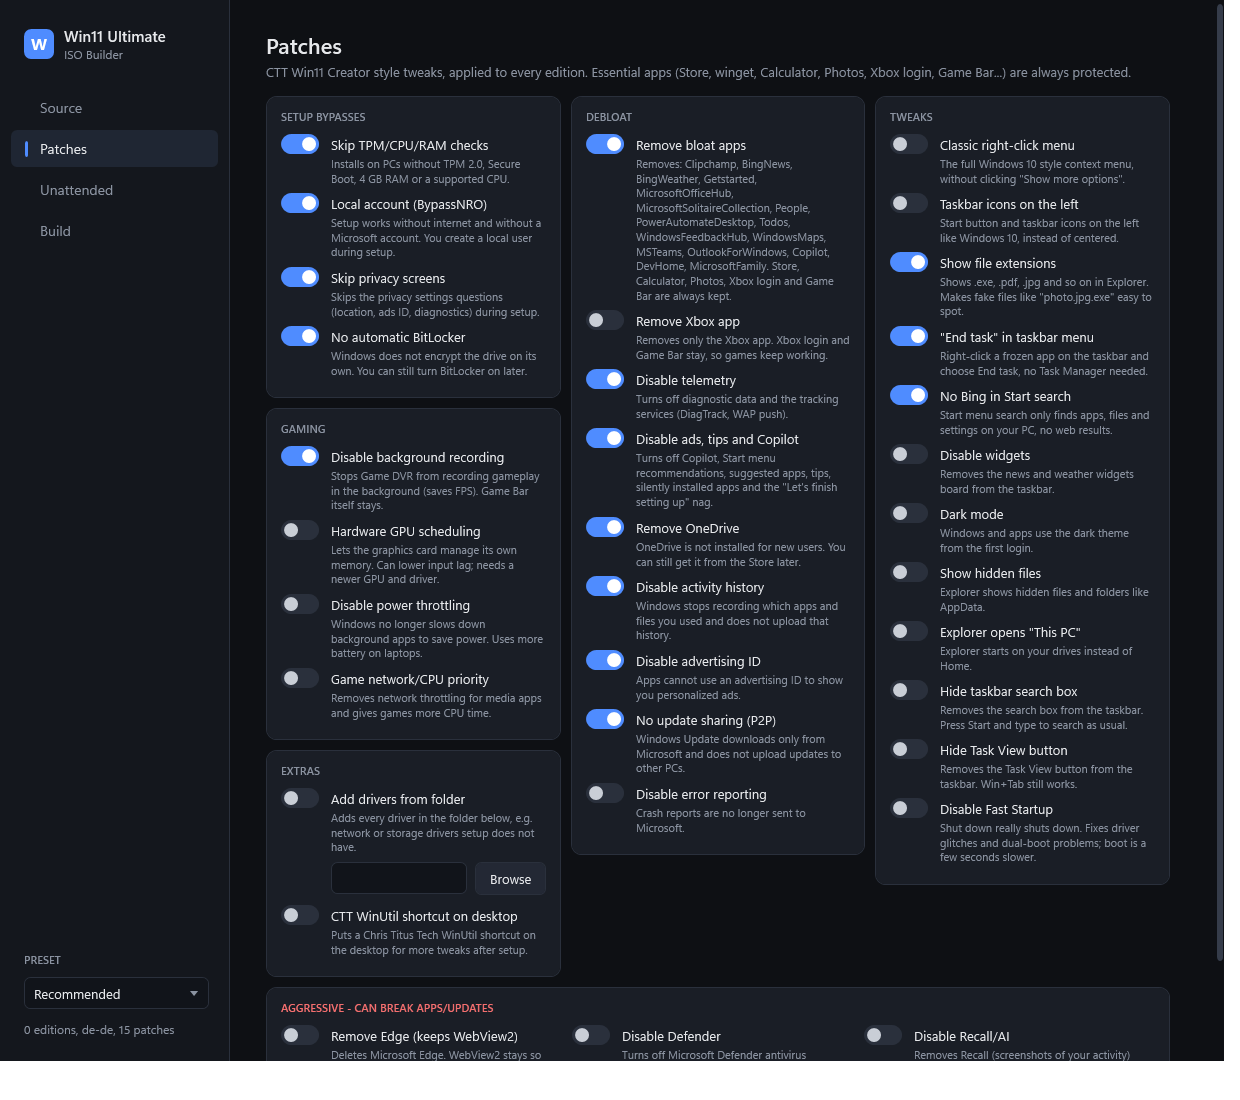
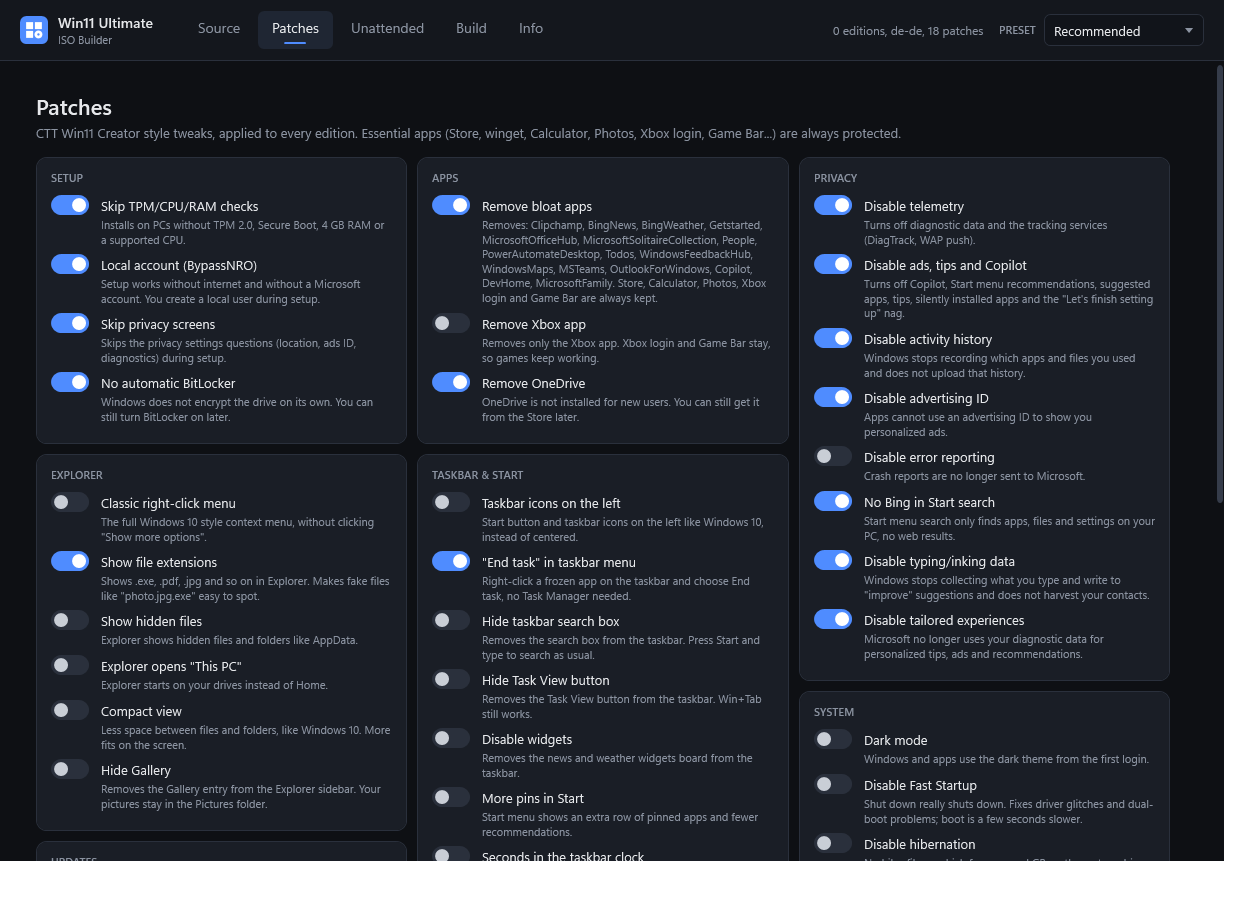
Tabs in a top bar; add Info page
Logo, tabs, preset and Update button move to a top bar so pages use the
full width. New Info tab: version, install folder, GitHub/folder buttons,
how-to and warnings. The summary hides on narrow windows.

diff --git a/lib/Window.xaml b/lib/Window.xaml
@@ -160,14 +160,14 @@
     <Style x:Key="Nav" TargetType="ListBoxItem">
       <Setter Property="Foreground" Value="{StaticResource Muted}"/><Setter Property="FontSize" Value="14"/><Setter Property="Cursor" Value="Hand"/>
       <Setter Property="Template"><Setter.Value><ControlTemplate TargetType="ListBoxItem">
-        <Border x:Name="b" CornerRadius="6" Padding="14,9" Margin="10,2" Background="Transparent">
-          <StackPanel Orientation="Horizontal">
-            <Border x:Name="bar" Width="3" Height="0" CornerRadius="2" Background="{StaticResource Accent}" Margin="0,0,12,0"/>
-            <ContentPresenter VerticalAlignment="Center"/></StackPanel></Border>
+        <Border x:Name="b" CornerRadius="6" Padding="14,7,14,5" Margin="2,0" Background="Transparent">
+          <StackPanel>
+            <ContentPresenter HorizontalAlignment="Center"/>
+            <Border x:Name="bar" Height="2" Width="0" CornerRadius="1" Background="{StaticResource Accent}" Margin="0,5,0,0" HorizontalAlignment="Center"/></StackPanel></Border>
         <ControlTemplate.Triggers>
           <Trigger Property="IsMouseOver" Value="True"><Setter TargetName="b" Property="Background" Value="#1C2029"/></Trigger>
           <Trigger Property="IsSelected" Value="True">
-            <Trigger.EnterActions><BeginStoryboard><Storyboard><DoubleAnimation Storyboard.TargetName="bar" Storyboard.TargetProperty="Height" To="16" Duration="0:0:0.2" DecelerationRatio="1"/></Storyboard></BeginStoryboard></Trigger.EnterActions><Trigger.ExitActions><BeginStoryboard><Storyboard><DoubleAnimation Storyboard.TargetName="bar" Storyboard.TargetProperty="Height" To="0" Duration="0:0:0.2" DecelerationRatio="1"/></Storyboard></BeginStoryboard></Trigger.ExitActions>
+            <Trigger.EnterActions><BeginStoryboard><Storyboard><DoubleAnimation Storyboard.TargetName="bar" Storyboard.TargetProperty="Width" To="22" Duration="0:0:0.2" DecelerationRatio="1"/></Storyboard></BeginStoryboard></Trigger.EnterActions><Trigger.ExitActions><BeginStoryboard><Storyboard><DoubleAnimation Storyboard.TargetName="bar" Storyboard.TargetProperty="Width" To="0" Duration="0:0:0.2" DecelerationRatio="1"/></Storyboard></BeginStoryboard></Trigger.ExitActions>
             <Setter TargetName="b" Property="Background" Value="#1F2633"/>
             <Setter Property="Foreground" Value="{StaticResource Text}"/></Trigger>
         </ControlTemplate.Triggers>
@@ -195,34 +195,34 @@
   </Window.Resources>
 
   <Grid>
-    <Grid.ColumnDefinitions><ColumnDefinition Width="230"/><ColumnDefinition/></Grid.ColumnDefinitions>
+    <Grid.RowDefinitions><RowDefinition Height="Auto"/><RowDefinition/></Grid.RowDefinitions>
 
-    <!-- Sidebar -->
-    <Border Background="{StaticResource Side}" BorderBrush="{StaticResource Line}" BorderThickness="0,0,1,0">
-      <DockPanel>
-        <StackPanel DockPanel.Dock="Top" Margin="24,26,20,24">
-          <StackPanel Orientation="Horizontal">
-            <Image Source="{StaticResource Logo}" Width="30" Height="30" Margin="0,0,10,0"/>
-            <StackPanel><TextBlock Text="Win11 Ultimate" FontWeight="SemiBold" FontSize="15"/>
-              <TextBlock Text="ISO Builder" FontSize="12" Foreground="{StaticResource Muted}"/></StackPanel>
-          </StackPanel>
+    <!-- Top bar: logo, tabs, preset -->
+    <Border Background="{StaticResource Side}" BorderBrush="{StaticResource Line}" BorderThickness="0,0,0,1">
+      <DockPanel Margin="20,10,20,10">
+        <StackPanel DockPanel.Dock="Left" Orientation="Horizontal" VerticalAlignment="Center" Margin="0,0,28,0">
+          <Image Source="{StaticResource Logo}" Width="28" Height="28" Margin="0,0,10,0"/>
+          <StackPanel VerticalAlignment="Center"><TextBlock Text="Win11 Ultimate" FontWeight="SemiBold" FontSize="14"/>
+            <TextBlock Text="ISO Builder" FontSize="11" Foreground="{StaticResource Muted}"/></StackPanel>
         </StackPanel>
-        <StackPanel DockPanel.Dock="Bottom" Margin="24,0,20,24">
-          <Button x:Name="UpdateBtn" Style="{StaticResource Primary}" Content="Update available" Visibility="Collapsed" Margin="0,0,0,18" ToolTip="Download the newest builder and restart"/>
-          <TextBlock Text="PRESET" Style="{StaticResource Section}"/>
-          <ComboBox x:Name="Preset"/>
-          <TextBlock x:Name="Summary" Style="{StaticResource Hint}" Margin="0,12,0,0"/>
+        <StackPanel DockPanel.Dock="Right" Orientation="Horizontal" VerticalAlignment="Center">
+          <Button x:Name="UpdateBtn" Style="{StaticResource Primary}" Content="Update available" Visibility="Collapsed" Margin="0,0,16,0" ToolTip="Download the newest builder and restart"/>
+          <TextBlock x:Name="Summary" Style="{StaticResource Hint}" VerticalAlignment="Center" Margin="0,0,16,0"/>
+          <TextBlock Text="PRESET" Style="{StaticResource Section}" VerticalAlignment="Center" Margin="0,0,8,0"/>
+          <ComboBox x:Name="Preset" Width="150"/>
         </StackPanel>
-        <ListBox x:Name="Nav" Background="Transparent" BorderThickness="0" ItemContainerStyle="{StaticResource Nav}">
+        <ListBox x:Name="Nav" Background="Transparent" BorderThickness="0" ItemContainerStyle="{StaticResource Nav}" VerticalAlignment="Center" ScrollViewer.HorizontalScrollBarVisibility="Disabled">
+          <ListBox.ItemsPanel><ItemsPanelTemplate><StackPanel Orientation="Horizontal"/></ItemsPanelTemplate></ListBox.ItemsPanel>
           <ListBoxItem Content="Source" Tag="PageSource" IsSelected="True"/>
           <ListBoxItem Content="Patches" Tag="PagePatches"/>
           <ListBoxItem Content="Unattended" Tag="PageUnattended"/>
           <ListBoxItem Content="Build" Tag="PageBuild"/>
+          <ListBoxItem Content="Info" Tag="PageInfo"/>
         </ListBox>
       </DockPanel>
     </Border>
 
-    <Grid Grid.Column="1">
+    <Grid Grid.Row="1">
       <!-- Source -->
       <ScrollViewer x:Name="PageSource" Style="{StaticResource Page}" VerticalScrollBarVisibility="Auto"><StackPanel Margin="36,30,36,30">
         <TextBlock Text="Source" Style="{StaticResource H1}"/>
@@ -355,6 +355,38 @@
             <TextBlock x:Name="StorageText" VerticalAlignment="Center" TextTrimming="CharacterEllipsis" Foreground="{StaticResource Muted}"/></DockPanel>
         </StackPanel></Border>
       </Grid>
+
+      <!-- Info -->
+      <ScrollViewer x:Name="PageInfo" Style="{StaticResource Page}" Visibility="Collapsed" VerticalScrollBarVisibility="Auto"><StackPanel Margin="36,30,36,30">
+        <TextBlock Text="Info" Style="{StaticResource H1}"/>
+        <TextBlock Text="About this builder and how to use it." Style="{StaticResource Sub}"/>
+        <Border Style="{StaticResource Card}"><StackPanel>
+          <TextBlock Text="ABOUT" Style="{StaticResource Section}"/>
+          <StackPanel Style="{StaticResource Row}"><TextBlock Text="Version" Style="{StaticResource Label}"/><TextBlock x:Name="InfoVersion"/></StackPanel>
+          <StackPanel Style="{StaticResource Row}"><TextBlock Text="Installed in" Style="{StaticResource Label}"/><TextBlock x:Name="InfoFolder"/></StackPanel>
+          <StackPanel Orientation="Horizontal"><TextBlock Text="Project page" Style="{StaticResource Label}"/>
+            <Button x:Name="OpenGitHub" Content="github.com/nussico/win11-ultimate-iso" Padding="10,4"/>
+            <Button x:Name="OpenFolder" Content="Open folder" Padding="10,4" Margin="10,0,0,0"/></StackPanel>
+        </StackPanel></Border>
+        <Border Style="{StaticResource Card}"><StackPanel>
+          <TextBlock Text="HOW TO USE" Style="{StaticResource Section}"/>
+          <TextBlock TextWrapping="Wrap" LineHeight="22">
+            <Run FontWeight="SemiBold" Text="1. Source"/><Run Text="  -  pick the language and tick the editions. Your own ISOs in the sources folder are used, anything missing is downloaded."/><LineBreak/>
+            <Run FontWeight="SemiBold" Text="2. Patches"/><Run Text="  -  pick a preset at the top right or tick patches yourself. Essential apps are always kept."/><LineBreak/>
+            <Run FontWeight="SemiBold" Text="3. Unattended"/><Run Text="  -  optional: account, language, keyboard and automatic install, so setup asks nothing."/><LineBreak/>
+            <Run FontWeight="SemiBold" Text="4. Build"/><Run Text="  -  check the plan, click Build ISO, then Test in VM. Put the ISO on a USB stick with Rufus or Ventoy."/>
+          </TextBlock>
+        </StackPanel></Border>
+        <Border Style="{StaticResource Card}" BorderBrush="{StaticResource Danger}"><StackPanel>
+          <TextBlock Text="GOOD TO KNOW" Style="{StaticResource Section}" Foreground="{StaticResource Danger}"/>
+          <TextBlock TextWrapping="Wrap" LineHeight="22">
+            <Run Text="- Automatic install (Best SSD, Disk 0) ERASES a disk on any PC booted from that ISO. Label the USB stick."/><LineBreak/>
+            <Run Text="- Aggressive patches (Edge, Defender, Recall) can break apps or updates."/><LineBreak/>
+            <Run Text="- Activation: use your own key or the PC's digital license. No activation tools are included."/><LineBreak/>
+            <Run Text="- Not affiliated with Microsoft, Chris Titus Tech or UUP dump. Use at your own risk. MIT license."/>
+          </TextBlock>
+        </StackPanel></Border>
+      </StackPanel></ScrollViewer>
     </Grid>
   </Grid>
 </Window>

diff --git a/.claude/agents/win11-iso-builder.md b/.claude/agents/win11-iso-builder.md
@@ -12,7 +12,7 @@ The user is an IT apprentice and gamer; answer in short, plain English.
 
 ## Layout
 - `Builder.ps1` - WPF GUI entry. Self-elevates via `conhost.exe --headless powershell.exe -STA` (no console window). Build runs in a background runspace; `$sync` hashtable (Log queue, Step, Cancel, Done, Error) polled by a DispatcherTimer.
-- `lib/Window.xaml` - dark theme. Pages: Source (language, editions, ISOs, UUP, storage), Patches, Unattended, Build (plan, output, Test in VM, log).
+- `lib/Window.xaml` - dark theme. Top bar (logo, tabs, preset, Update button). Pages: Source, Patches, Unattended, Build (plan, output, log, Test in VM, storage), Info (version, folder, how-to, warnings).
 - `lib/Build.ps1` - `Invoke-Build`, steps 1-9, detailed log + summary to `out\build-log.txt`.
 - `lib/Source.ps1` - ISO detection, UUP dump (`Get-UupBuilds`, `Select-NewestUupBuild`, `Save-UupIso`), `Get-BuildPlan` (shared by build and GUI plan card).
 - `lib/Patches.ps1` - `$Patches` catalog (Group, Label, Desc, Reg, Action, Boot), `$RemoveApps`, `$ProtectedApps`, `$Presets`, offline registry helpers.

diff --git a/README.md b/README.md
@@ -16,7 +16,7 @@ irm https://raw.githubusercontent.com/nussico/win11-ultimate-iso/main/install.ps
 
 It asks which drive to use (Enter = the drive it is already on, or the one with the most free space), downloads the
 builder to `Win11UltimateBuilder` there and starts it as admin.
-Next time, start it with the *Win11 Ultimate ISO Builder* shortcut in that folder (nothing is added to Start menu or desktop). When a new version is out, an **Update available** button shows in the sidebar:
+Next time, start it with the *Win11 Ultimate ISO Builder* shortcut in that folder (nothing is added to Start menu or desktop). When a new version is out, an **Update available** button shows in the top bar:
 one click updates and restarts. Your ISOs, output and cache are kept.
 
 Manual: download the repo ZIP, extract, right-click `Builder.ps1` -> *Run with PowerShell*.
